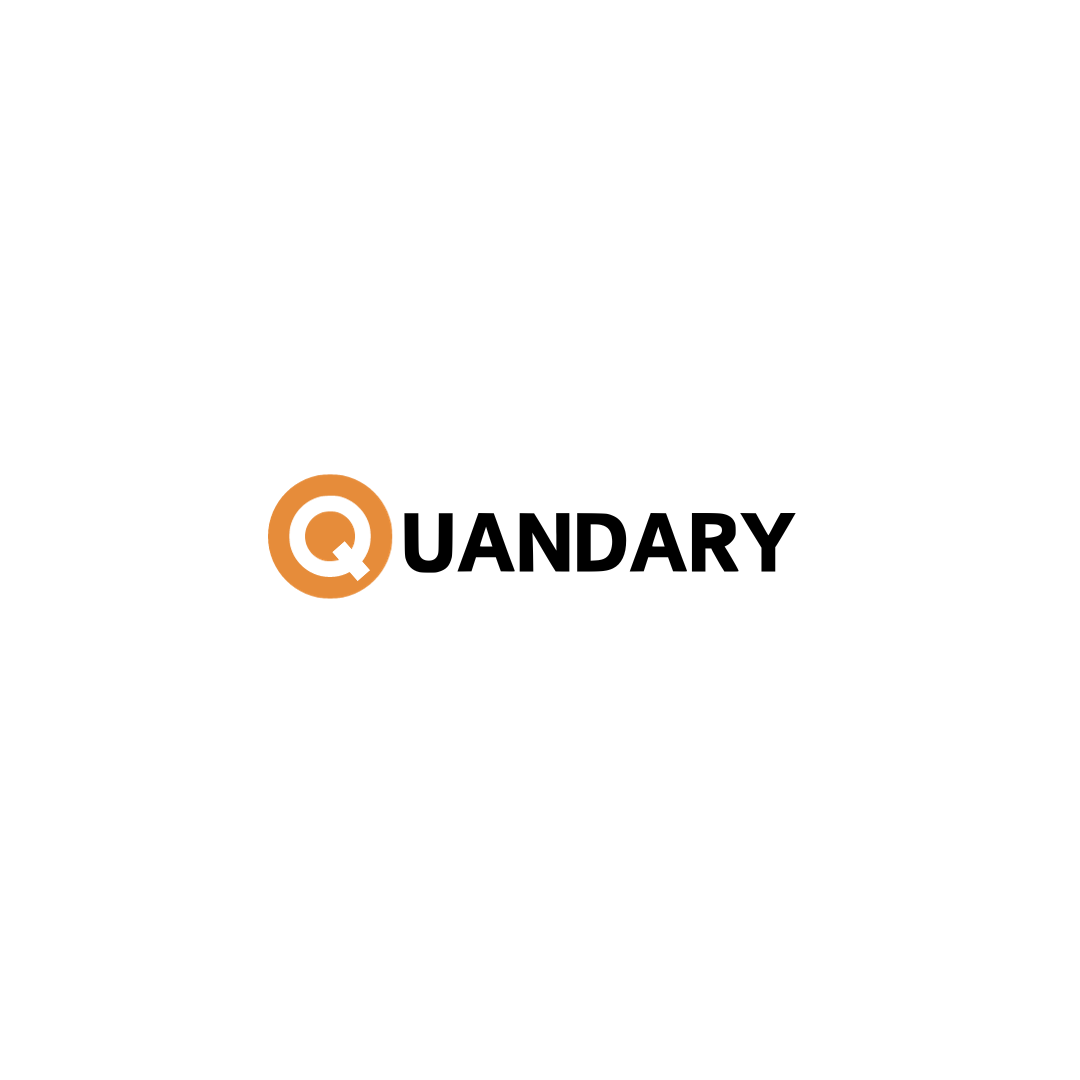
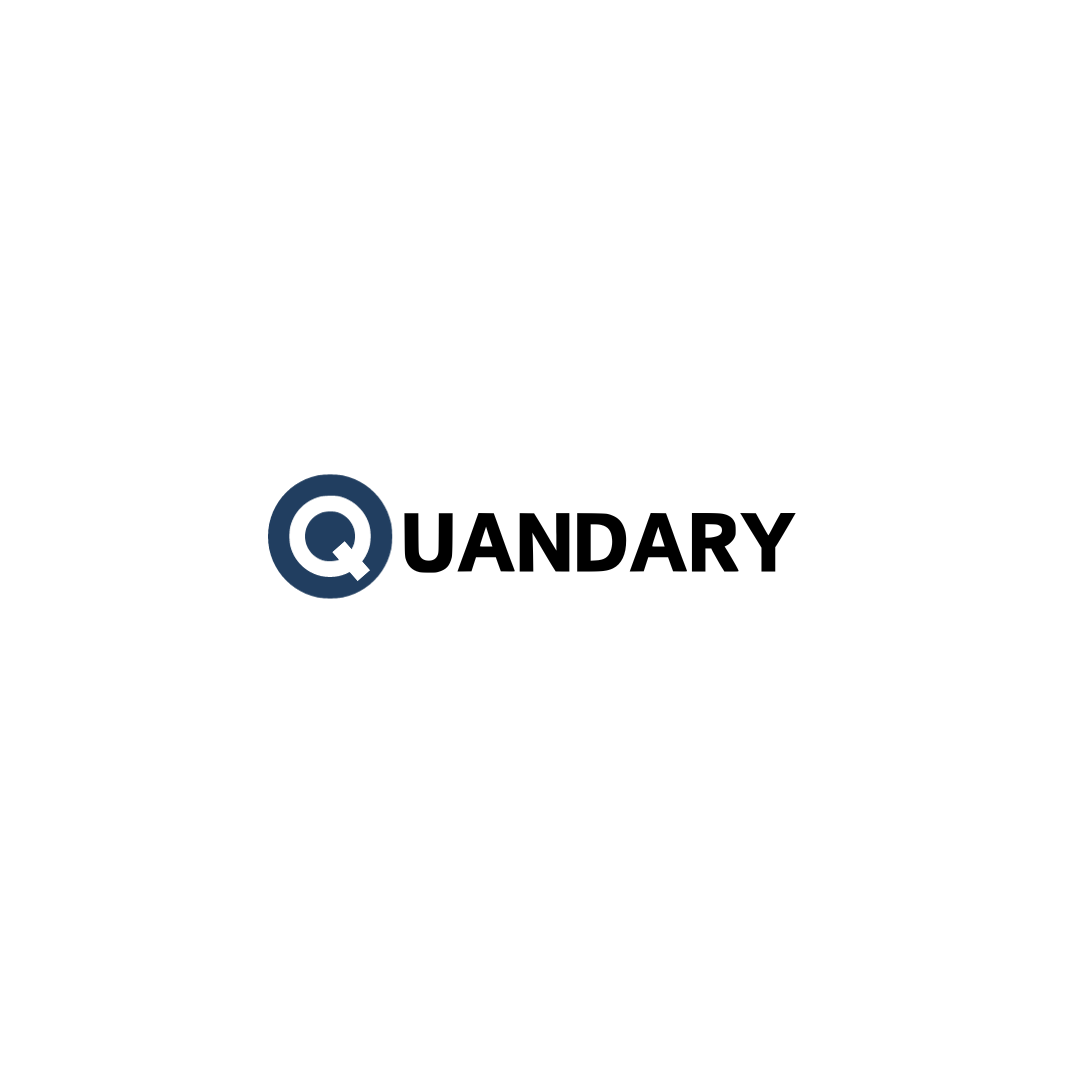
update ygy

Changed region(s): [[0.2444, 0.4278, 0.3667, 0.55]]

diff --git a/app/login/style.css b/app/login/style.css
@@ -35,7 +35,7 @@
 
 input:focus {
     outline: none;
-    border: 0.4vw solid #e68c3a;
+    border: 0.4vw solid #223F61;
 }
 
 .email, .password, .repassword {
@@ -48,18 +48,25 @@ input:focus {
     width: 85vw;
     height: 12vw;
     box-shadow: 0 1vw 2vw rgba(0, 0, 0, 0.1);
+    background-color: #F5F5F5;
 }
 
 .submit {
-    border: 1px solid #e68c3a;
+    border: 1px solid #223F61;
     color: white;
-    background-color: #e68c3a;
+    background-color: #223F61;
     border-radius: 9vw;
     padding: 0;
     height: 12vw;
     font-size: 3.5vw;
     padding-top: 3vw;
     margin-bottom: 3vw;
+}
+
+.submit:hover {
+    border: 1px solid #4B77A9;
+    color: white;
+    background-color: #4B77A9;
 }
 
 .enter {
@@ -70,9 +77,13 @@ input:focus {
     display: flex;
     flex-direction: column;
     align-items: center;
-    background-color: #93B6EE;
+    background-color: #7EA3F0;
     border-radius: 9vw;
     height: 12vw;
+}
+
+.google:hover {
+    background-color: #93B6EE;
 }
   
 .iconback {

diff --git a/app/regist/style.css b/app/regist/style.css
@@ -35,7 +35,7 @@
 
 input:focus {
     outline: none;
-    border: 0.4vw solid #e68c3a;
+    border: 0.4vw solid #223F61;
 }
 
 .email, .password, .repassword {
@@ -48,18 +48,25 @@ input:focus {
     width: 85vw;
     height: 12vw;
     box-shadow: 0 1vw 2vw rgba(0, 0, 0, 0.1);
+    background-color: #F5F5F5;
 }
 
 .submit {
-    border: 1px solid #e68c3a;
+    border: 1px solid #223F61;
     color: white;
-    background-color: #e68c3a;
+    background-color: #223F61;
     border-radius: 9vw;
     padding: 0;
     height: 12vw;
     font-size: 3.5vw;
     padding-top: 3vw;
     margin-bottom: 3vw;
+}
+
+.submit:hover {
+    border: 1px solid #4B77A9;
+    color: white;
+    background-color: #4B77A9;
 }
 
 .enter {
@@ -70,9 +77,13 @@ input:focus {
     display: flex;
     flex-direction: column;
     align-items: center;
-    background-color: #93B6EE;
+    background-color: #7EA3F0;
     border-radius: 9vw;
     height: 12vw;
+}
+
+.google:hover {
+    background-color: #93B6EE;
 }
   
 .iconback {

diff --git a/app/globals.css b/app/globals.css
@@ -4,15 +4,15 @@
 
 :root {
   --foreground-rgb: 0, 0, 0;
-  --background-start-rgb: 243, 242, 238;
-  --background-end-rgb: 243, 242, 238;
+  --background-start-rgb: 253,253,253;
+  --background-end-rgb: 253,253,253;
 }
 @media (prefers-color-scheme: dark) {
   
 :root {
   --foreground-rgb: 0, 0, 0;
-  --background-start-rgb: 243, 242, 238;
-  --background-end-rgb: 243, 242, 238;
+  --background-start-rgb: 253,253,253;
+  --background-end-rgb: 253,253,253;
 }
   
 body {
